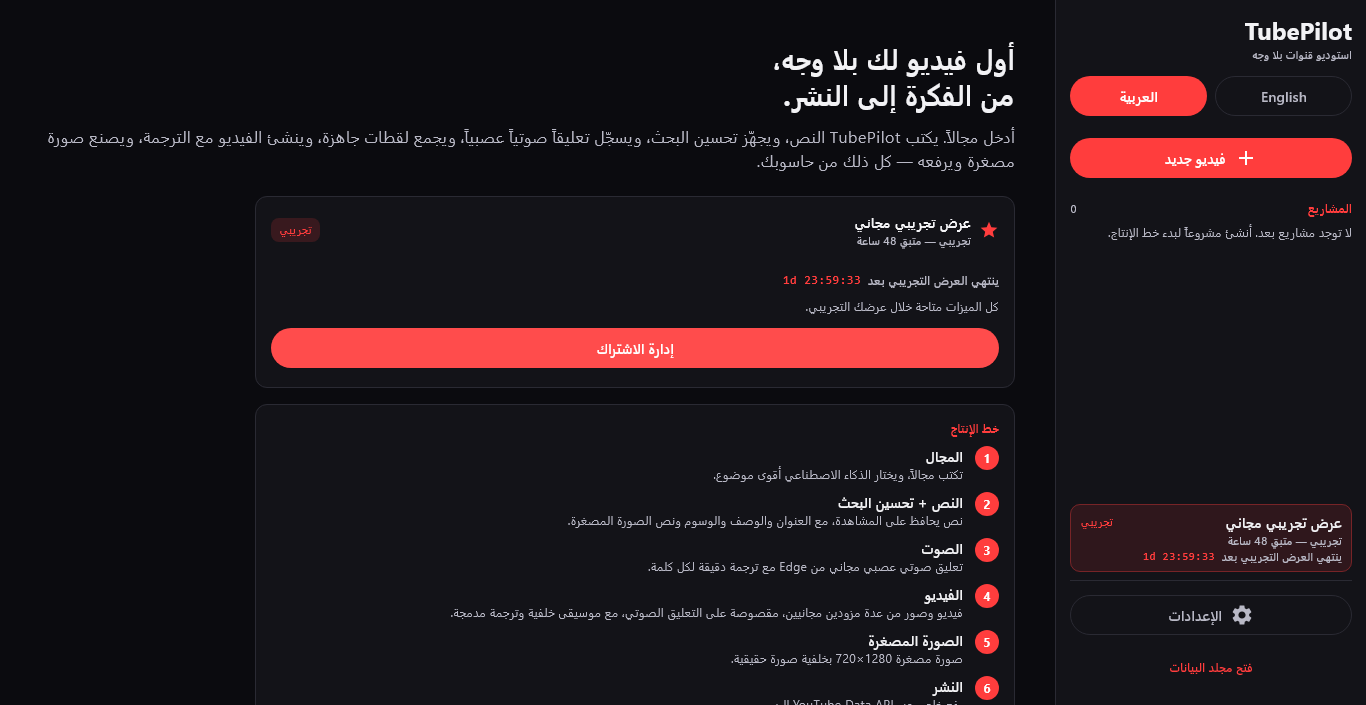
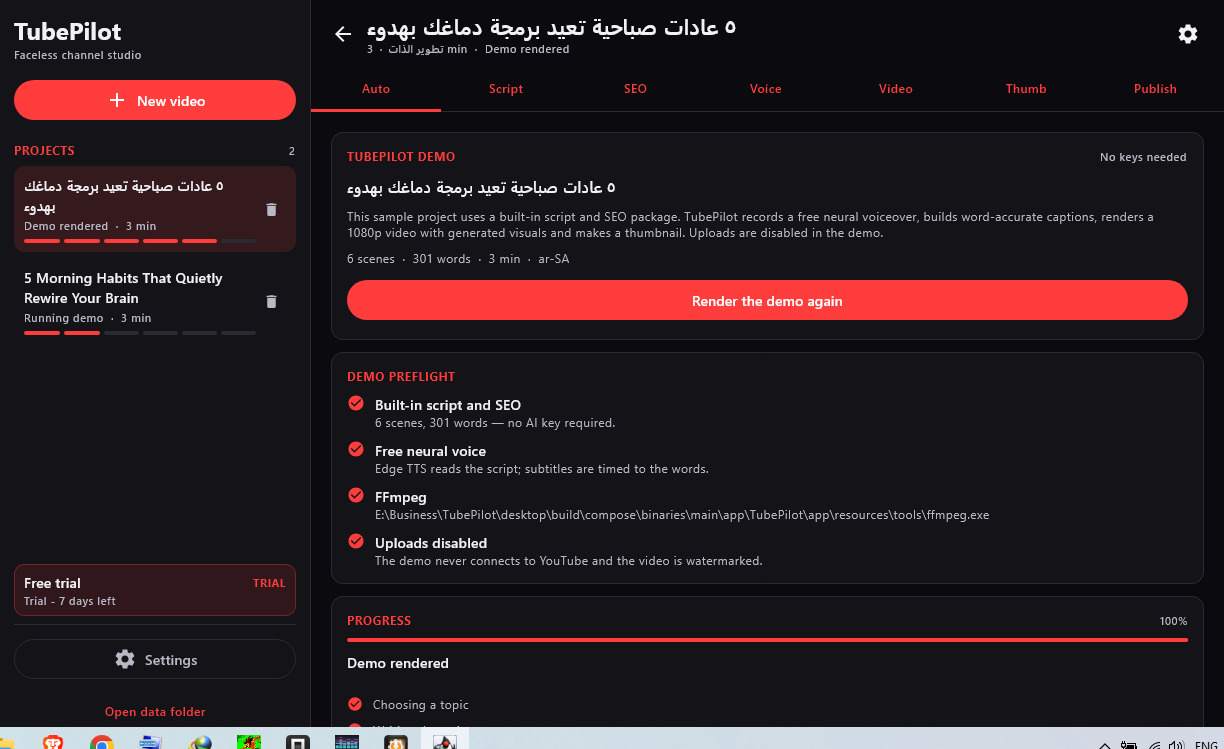
Show a finished project in the hero screenshot

diff --git a/index-ar.html b/index-ar.html
@@ -150,7 +150,7 @@
 
         <div class="hero-shot">
           <figure class="hero-photo">
-            <img src="assets/screenshots/hero-ar.png" width="1366" height="705" alt="الشاشة الرئيسية لـ TubePilot مأخوذة من تطبيق ويندوز مع الشريط الجانبي وحالة التجربة ومراحل الإنتاج الثماني">
+            <img src="assets/screenshots/hero-ar.png" width="1224" height="749" alt="شاشة مشروع TubePilot مأخوذة من تطبيق ويندوز وتعرض مراحل الإنتاج الثماني ونص الفيديو التجريبي والفيديو النهائي بدقة 1080p">
           </figure>
           <div class="hero-badge">
             <span class="dot"><svg aria-hidden="true"><use href="#i-film"/></svg></span>

diff --git a/index.html b/index.html
@@ -190,7 +190,7 @@
 
         <div class="hero-shot">
           <figure class="hero-photo">
-            <img src="assets/screenshots/hero-en.png" width="1366" height="705" alt="TubePilot Home screen captured from the Windows app, with the sidebar, trial status and eight-stage pipeline">
+            <img src="assets/screenshots/hero-en.png" width="1224" height="749" alt="TubePilot project screen captured from the Windows app, showing the eight-stage pipeline, demo script and finished 1080p video">
           </figure>
           <div class="hero-badge">
             <span class="dot"><svg aria-hidden="true"><use href="#i-film"/></svg></span>

diff --git a/README.md b/README.md
@@ -139,9 +139,9 @@ Get-FileHash .\downloads\TubePilot-1.0.0-portable.zip -Algorithm SHA256
   `#troubleshooting` are linked from the landing pages, so do not rename them.
 - Arabic pages use `dir="rtl"`; code snippets and file paths use `dir="ltr"`.
 - Screenshots live in `assets/screenshots/`. `hero-en.png` and `hero-ar.png` are
-  real 1366×705 captures of the Windows app's Home screen, taken from the client
-  area so no OS title bar or taskbar appears. `home-*.png` holds the same pair
-  for the language cards. Replace them at the same dimensions or update the
+  real 1224×749 client-area crops of the finished demo project, so no OS title
+  bar or taskbar appears. `home-*.png` holds 1366×705 Home-screen captures used
+  by the language cards. Replace them at the same dimensions or update the
   `width`/`height` attributes to avoid layout shift.
 - The site has no cookies, analytics or external fonts. The only outbound links
   are WhatsApp, the documentation, and the API-key sites named in the manual.
